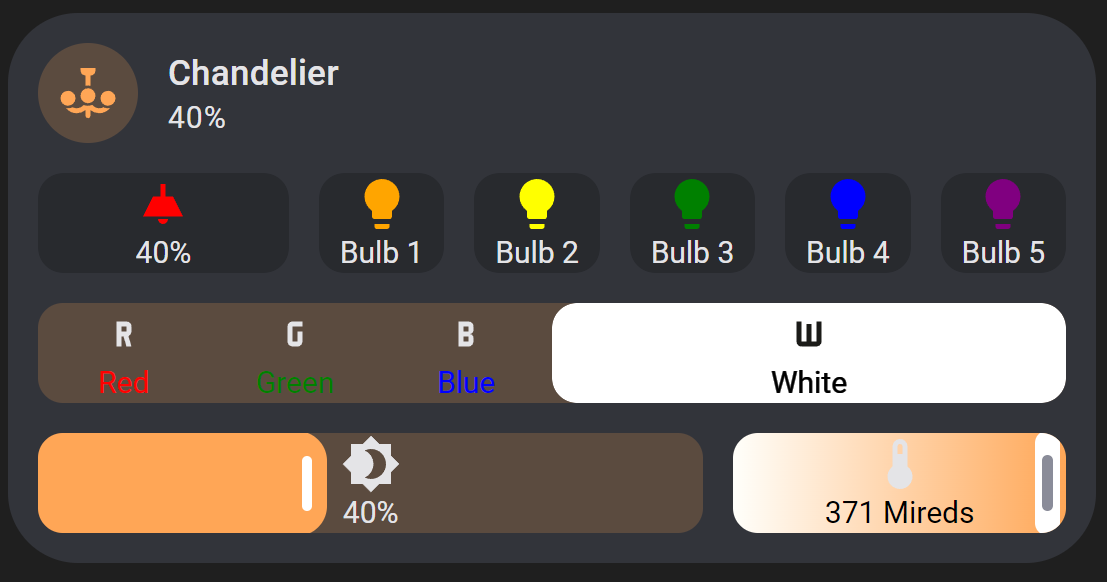
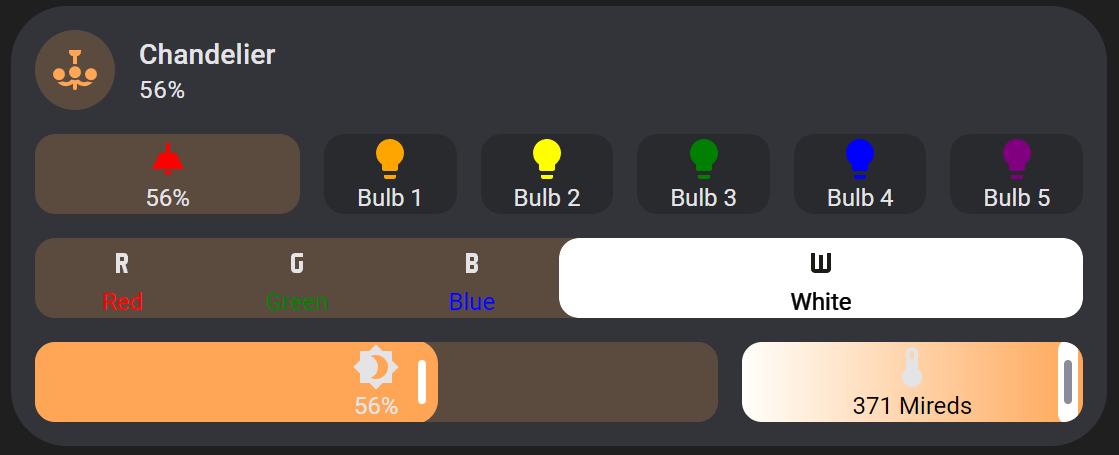
fix README button color template example and screenshot

diff --git a/README.md b/README.md
@@ -276,7 +276,7 @@ features:
         style:
           flex-basis: 200%
           '--icon-color': red
-          '--background': |
+          '--color': |
             {% if is_state("light.chandelier", "on") %}
               rgb({{ state_attr("light.chandelier", "rgb_color") }})
             {% else %}
